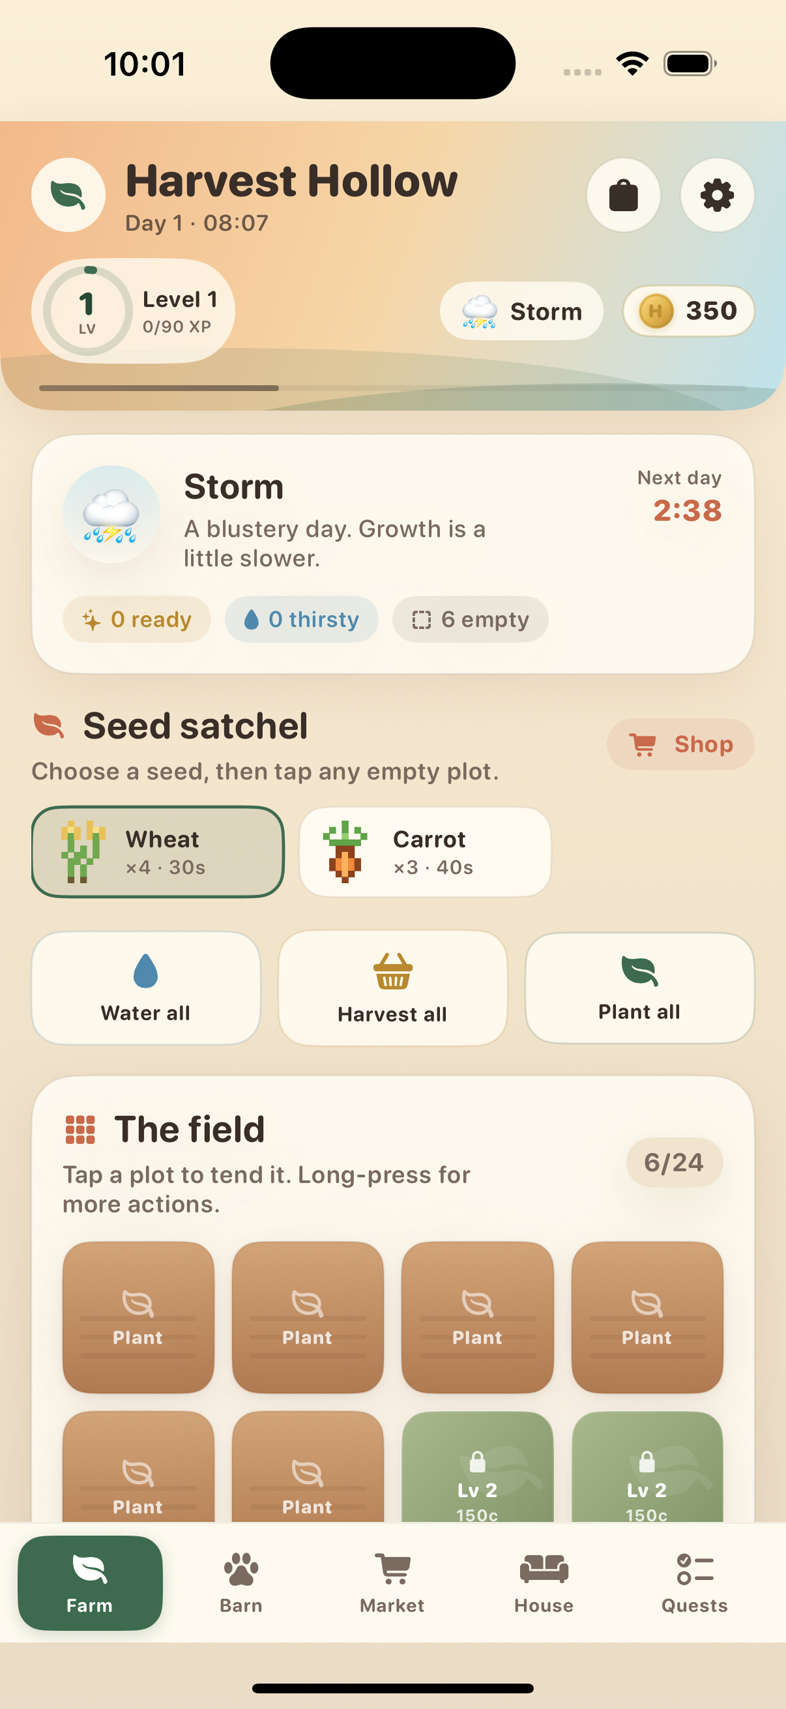
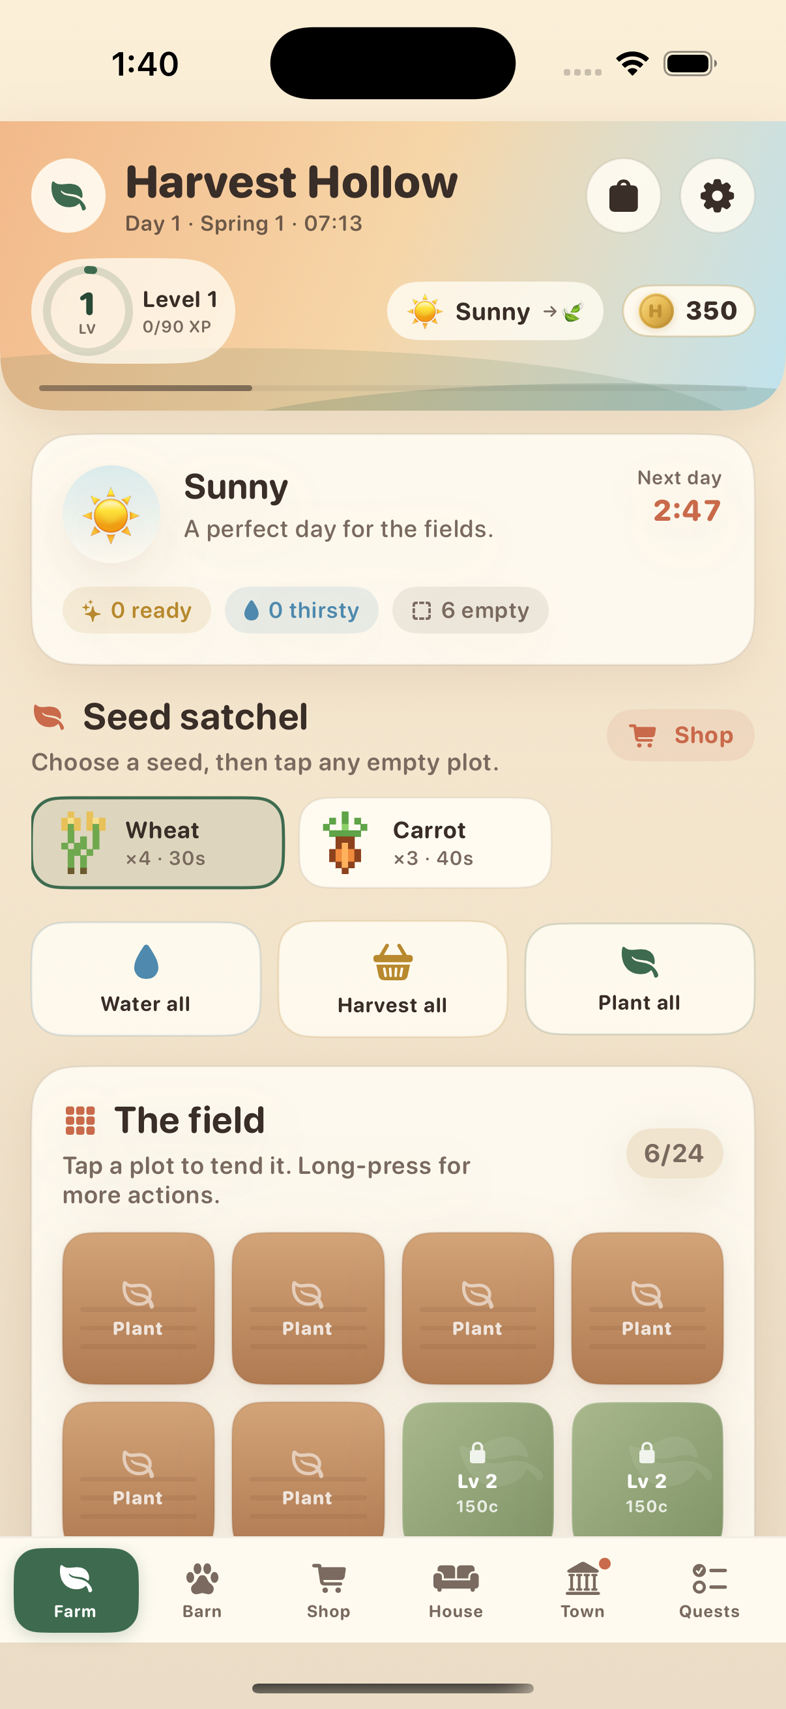
Polish town screens, offline migration tests, and README screenshots

diff --git a/Tests/HarvestHollowCoreTests/ActivityTests.swift b/Tests/HarvestHollowCoreTests/ActivityTests.swift
@@ -422,6 +422,32 @@ final class ActivityTests: XCTestCase {
         XCTAssertEqual(decoded.version, GameConstants.saveVersion)
     }
 
+    func testOldAnimalWithoutAffectionFieldsStillLoads() throws {
+        var state = GameState.newGame(now: fixedDate, seed: 21)
+        state.pens[0].unlocked = true
+        state.pens[0].animal = animal()
+        let data = try SaveCodec.encode(state, savedAt: fixedDate)
+        var object = try XCTUnwrap(JSONSerialization.jsonObject(with: data) as? [String: Any])
+        var stateObject = try XCTUnwrap(object["state"] as? [String: Any])
+        var pens = try XCTUnwrap(stateObject["pens"] as? [[String: Any]])
+        var firstPen = pens[0]
+        var animalObject = try XCTUnwrap(firstPen["animal"] as? [String: Any])
+        animalObject.removeValue(forKey: "affection")
+        animalObject.removeValue(forKey: "lastPettedAt")
+        animalObject.removeValue(forKey: "petCount")
+        firstPen["animal"] = animalObject
+        pens[0] = firstPen
+        stateObject["pens"] = pens
+        object["state"] = stateObject
+        let stripped = try JSONSerialization.data(withJSONObject: object)
+        let decoded = try SaveCodec.decode(stripped)
+        let restored = try XCTUnwrap(decoded.pens[0].animal)
+        XCTAssertEqual(restored.name, "Pip")
+        XCTAssertEqual(restored.affection, 45)
+        XCTAssertNil(restored.lastPettedAt)
+        XCTAssertEqual(restored.petCount, 0)
+    }
+
     // MARK: - Sprites and content integrity
 
     func testEveryFishAndDishHasAValidDetailedSprite() {

diff --git a/Sources/HarvestHollowUI/FishingView.swift b/Sources/HarvestHollowUI/FishingView.swift
@@ -10,6 +10,7 @@ public struct FishingView: View {
     @State private var lastCatchID: String?
     @State private var lastCatchWeight: Double = 0
     @State private var catchPulse = false
+    @State private var catchTask: Task<Void, Never>?
     @State private var showRarityGuide = false
 
     private var state: GameState { store.state }
@@ -57,6 +58,9 @@ public struct FishingView: View {
             RarityGuideSheet()
                 .presentationDetents([.medium])
                 .presentationDragIndicator(.visible)
+        }
+        .onDisappear {
+            catchTask?.cancel()
         }
     }
 
@@ -180,12 +184,22 @@ public struct FishingView: View {
     }
 
     private func cast() {
+        let previousID = store.state.activities.fishing.recentCatches.first?.id
         store.castLine()
-        guard let record = store.state.activities.fishing.recentCatches.first else { return }
+        guard let record = store.state.activities.fishing.recentCatches.first,
+              record.id != previousID else { return }
         lastCatchID = record.fishID
         lastCatchWeight = record.weight
         withAnimation(.spring(response: 0.4, dampingFraction: 0.75)) {
             catchPulse = true
+        }
+        catchTask?.cancel()
+        catchTask = Task { @MainActor in
+            try? await Task.sleep(nanoseconds: 4_000_000_000)
+            guard !Task.isCancelled else { return }
+            withAnimation(.easeOut(duration: 0.25)) {
+                catchPulse = false
+            }
         }
     }
 

diff --git a/Sources/HarvestHollowUI/AlmanacView.swift b/Sources/HarvestHollowUI/AlmanacView.swift
@@ -147,7 +147,7 @@ public struct AlmanacView: View {
                 }
 
                 let history = Array(state.activities.weatherHistory.suffix(7))
-                if !history.isEmpty {
+                if history.count > 1 {
                     MiniBarChart(
                         values: history.map { $0.growthMultiplier * 100 },
                         labels: history.map { $0.emoji },
@@ -164,6 +164,19 @@ public struct AlmanacView: View {
                             .font(.system(size: 10, weight: .heavy, design: .rounded))
                             .foregroundStyle(HHTheme.forest)
                     }
+                } else {
+                    HStack(spacing: 7) {
+                        Image(systemName: "chart.bar.xaxis")
+                            .font(.system(size: 12, weight: .bold))
+                            .foregroundStyle(HHTheme.forest)
+                        Text("The seven-day weather ledger starts filling tomorrow.")
+                            .font(.hhCaption(10.5))
+                            .foregroundStyle(HHTheme.muted)
+                            .fixedSize(horizontal: false, vertical: true)
+                        Spacer(minLength: 0)
+                        TagChip("\(Int(state.weather.growthMultiplier * 100))% growth", tint: HHTheme.forest)
+                    }
+                    .padding(.top, 2)
                 }
 
                 HStack(spacing: 6) {

diff --git a/Sources/HarvestHollowUI/WeatherSheet.swift b/Sources/HarvestHollowUI/WeatherSheet.swift
@@ -92,7 +92,7 @@ public struct WeatherSheet: View {
                 }
 
                 let history = Array(state.activities.weatherHistory.suffix(7))
-                if !history.isEmpty {
+                if history.count > 1 {
                     CozyCard {
                         VStack(alignment: .leading, spacing: 9) {
                             SectionHeader(

diff --git a/README.md b/README.md
@@ -22,11 +22,22 @@ data-driven coloured squares — no PNG sprite atlases, no web views, and no Jav
 </p>
 
 <p align="center">
-  <img src="docs/screenshot-farm.png" width="320" alt="The Harvest Hollow farm screen running in the iOS simulator" />
+  <img src="docs/screenshot-farm.png" width="300" alt="The Harvest Hollow farm screen running in the iOS simulator" />
+  <img src="docs/screenshot-town.png" width="300" alt="The Hollowmere town hub with daily gift and places to visit" />
 </p>
 
 <p align="center">
   <em>The real app, captured from the iOS simulator by CI. Weather, levels and prices are live.</em>
+</p>
+
+<p align="center">
+  <img src="docs/screenshot-fishing.png" width="250" alt="The Hollow Pond fishing screen" />
+  <img src="docs/screenshot-kitchen.png" width="250" alt="The Cottage Kitchen recipe screen" />
+  <img src="docs/screenshot-almanac.png" width="250" alt="The Valley Almanac weather and calendar screen" />
+</p>
+
+<p align="center">
+  <em>Pond, kitchen and almanac: three corners of the town expansion, all drawn with SwiftUI Canvas.</em>
 </p>
 
 ![Harvest Hollow sprite library](docs/sprites.png)
@@ -36,9 +47,9 @@ data-driven coloured squares — no PNG sprite atlases, no web views, and no Jav
 | System | What you can do |
 | --- | --- |
 | **Farm** | 24 plots (6 unlocked), 9 crops, watering, fertilizing, multi-plant, multi-water, multi-harvest, growth stages and weather bonuses |
-| **Barn** | 8 pens (2 unlocked), 7 animals, adopt/rename/feed/collect, happiness, production timers, stored goods and two free cycles on adoption |
-| **Market** | Buy seeds, feed and fertilizer; buy furniture and house themes; daily price swings; comfort sale bonus; daily market order |
-| **Inventory** | Filterable satchel with seeds, crops, barn goods, supplies and furniture; quick plant, feed and sell actions |
+| **Barn** | 8 pens (2 unlocked), 7 animals, adopt/rename/feed/collect/pet, happiness, affection, production timers, stored goods and two free cycles on adoption |
+| **Market** | Buy seeds, feed, bait and fertilizer; buy furniture and house themes; daily price swings; comfort and mastery sale bonuses; daily market order |
+| **Inventory** | Filterable satchel with seeds, crops, barn goods, fish, dishes, supplies and furniture; quick plant, feed, eat and sell actions |
 | **House** | 14 furniture pieces, drag/arrow placement on a 12×8 room grid, 5 themes, comfort score and up to +25% market bonus |
 | **Quests** | 10-chapter story with automatic objective tracking and rewards, plus a daily order |
 | **Town** | A navigation hub for the pond, kitchen, almanac, collection, achievements and help guide |
@@ -159,7 +170,7 @@ HarvestHollow/
 │   │   ├── Components.swift
 │   │   └── Theme.swift
 │   └── HarvestHollowCLI/      # Headless demo, sprite browser, validator
-├── Tests/                     # 61 core simulation tests
+├── Tests/                     # 62 core simulation tests
 ├── Apps/HarvestHollow/        # iOS app target (XcodeGen project)
 ├── Tools/                     # Reproducible icon + sprite-sheet generators
 └── docs/
@@ -220,7 +231,7 @@ tab. The app target consumes the repository as a local Swift package
 
 ```bash
 swift build
-swift test                              # 61 tests
+swift test                              # 62 tests
 swift run harvesthollow demo            # full headless gameplay loop
 swift run harvesthollow sprites pig     # terminal sprite browser
 swift run harvesthollow validate        # check all 69 sprite grids
@@ -253,7 +264,7 @@ legacy-save migration, import/export and sprite integrity.
 
 ```bash
 swift test
-# Executed 61 tests, with 0 failures
+# Executed 62 tests, with 0 failures
 ```
 
 ## Regenerating art assets
